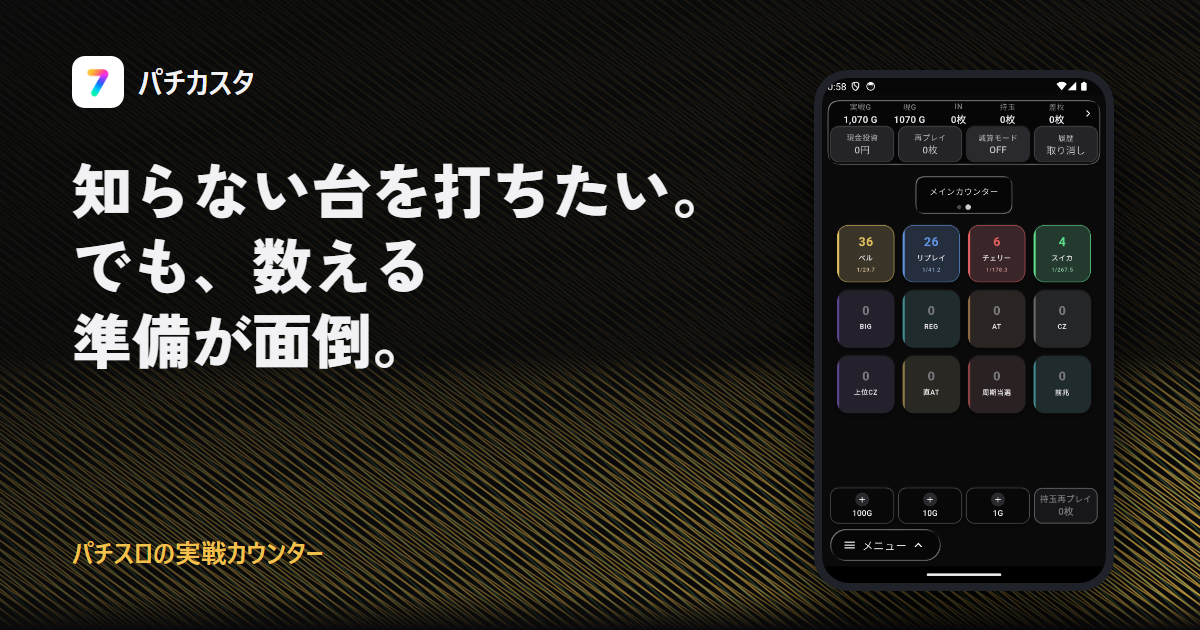
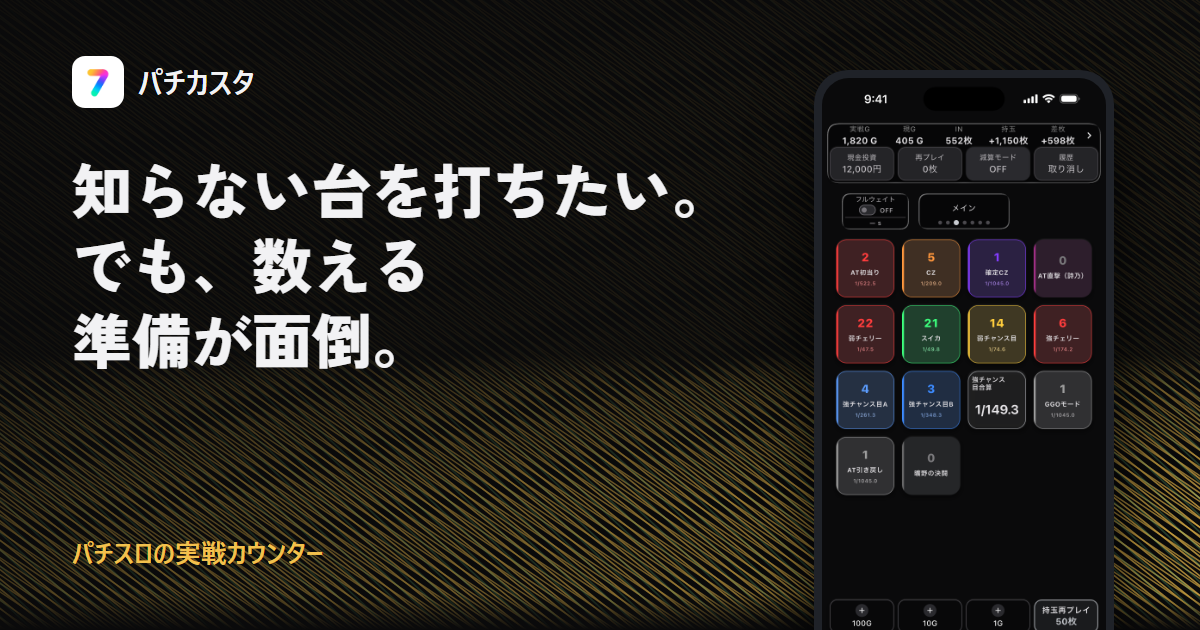
LP を更新（画面を iPhone に・機種ごとのカウンターを追加・節の並べ替え）

Changed region(s): [[0.6783, 0.1206, 0.925, 0.8746], [0.6783, 0.9048, 0.9558, 1.0]]

diff --git a/index.html b/index.html
@@ -70,6 +70,7 @@ h1 { margin-top: 40px; font-size: 48px; line-height: 1.18; letter-spacing: -.01e
 .contents .note + p { margin-top: 16px; }
 /* statement + its screen; the screens alternate right / left on the phone */
 .pair { margin-top: 40px; }
+.can > .pair + .say { margin-top: 56px; }
 .say .note { font-size: 12px; }
 .pair.alt .phone { margin-left: auto; }
 .pair.alt figcaption { text-align: right; }
@@ -99,7 +100,7 @@ footer nav a { color: var(--ink); font-size: 13px; padding: 6px 0; }
   .top { padding: 32px 64px 200px; }
   h1 { font-size: 72px; margin-top: 56px; }
   .lead { font-size: 17px; max-width: 26em; }
-  .hero-phone { position: absolute; top: 240px; right: 96px; width: 300px; margin: 0; }
+  .hero-phone { position: absolute; top: 240px; right: 96px; width: 262px; margin: 0; }
   .can { padding: 150px 64px 0; }
   .can > .say { max-width: 600px; }
   .pair { display: grid; grid-template-columns: 1fr 260px; gap: 0 80px; align-items: center; margin-top: 72px; }
@@ -111,6 +112,7 @@ footer nav a { color: var(--ink); font-size: 13px; padding: 6px 0; }
   .for { padding: 150px 64px 0; }
   .for p { font-size: 32px; max-width: 24em; }
   .for + .can { padding-top: 80px; }
+  .can > .pair + .say { margin-top: 96px; }
   h1.h-long { font-size: 64px; }
   .price { display: grid; grid-template-columns: 1fr 1fr; grid-template-rows: auto auto auto 1fr; gap: 0 80px; padding: 96px 64px 0; }
   .price .keep { align-self: start; }
@@ -136,23 +138,27 @@ footer nav a { color: var(--ink); font-size: 13px; padding: 6px 0; }
   </div>
   <p class="free">アプリは無料でダウンロードできます</p>
 </header>
-<div class="phone hero-phone"><img src="assets/counter.png" alt="カウンター画面" width="1080" height="1920"></div>
+<div class="phone hero-phone"><img src="assets/counter_hero.png" alt="カウンター画面" width="1320" height="2868"></div>
 
 <section class="can">
   <h2 class="label">できること</h2>
-  <p class="say"><b class="zen">打ちたい機種のカウント項目が、ひと目で分かる</b><span>パチカスタ製レイアウトは、機種ごとに数えるボタンと設定差の表がそろっています。</span></p>
-  <p class="say"><b class="zen">数えたあとの、複雑な確率計算はいらない</b><span>回数から確率（1/◯◯）をその場で出し、設定差の表と並べて見られます。</span></p>
-  <p class="say"><b class="zen">計算式は、自由にカスタマイズ</b><span>計算ボタンで、ボタンの回数やG数を足す・引く・掛ける・割るで組み合わせられます。</span></p>
+  <div class="pair">
+    <p class="say"><b class="zen">打ちたい機種のカウント項目が、ひと目で分かる</b><span>パチカスタ製レイアウトは、機種ごとに数えるボタンと設定差の表がそろっています。</span></p>
+    <figure><div class="phone"><img src="assets/counter_monkey.png" alt="機種ごとの数えるボタンが並んだカウンター" width="1320" height="2868"></div>
+      <figcaption>機種ごとの数える項目がそろったカウンター（パチカスタ製レイアウト）</figcaption></figure>
+  </div>
   <div class="pair alt">
     <p class="say"><b class="zen">攻略サイトを見なくても、演出の詳細をアプリ内で確認できる</b><span class="note">パチカスタ製レイアウトの「演出記録ページ（4・5ページ目）」で見られます。演出記録ページはアプリ内課金です（はじめての方は30日間無料）。</span></p>
-    <figure><div class="phone"><img src="assets/ibutton.png" alt="演出の項目の i を押すと出る詳しい説明" width="1080" height="1920"></div>
+    <figure><div class="phone"><img src="assets/ibutton.png" alt="演出の項目の i を押すと出る詳しい説明" width="1320" height="2868"></div>
       <figcaption>i を押すと、その演出の詳しい説明</figcaption></figure>
   </div>
   <div class="pair">
     <p class="say"><b class="zen">どんな演出が出たのか、タップで記録できる</b><span>何G目・どの区間で出たかも残ります。</span></p>
-    <figure><div class="phone"><img src="assets/enshutsu.png" alt="演出タグのページ。押すと時刻とG数つきで記録される" width="1080" height="1920"></div>
+    <figure><div class="phone"><img src="assets/enshutsu.png" alt="演出タグのページ。押すと時刻とG数つきで記録される" width="1320" height="2868"></div>
       <figcaption>演出タグを押すと、時刻とG数つきで記録（パチカスタ製レイアウト）</figcaption></figure>
   </div>
+  <p class="say"><b class="zen">数えたあとの、複雑な確率計算はいらない</b><span>回数から確率（1/◯◯）をその場で出し、設定差の表と並べて見られます。</span></p>
+  <p class="say"><b class="zen">計算式は、自由にカスタマイズ</b><span>計算ボタンで、ボタンの回数やG数を足す・引く・掛ける・割るで組み合わせられます。</span></p>
 </section>
 
 <section class="price">
